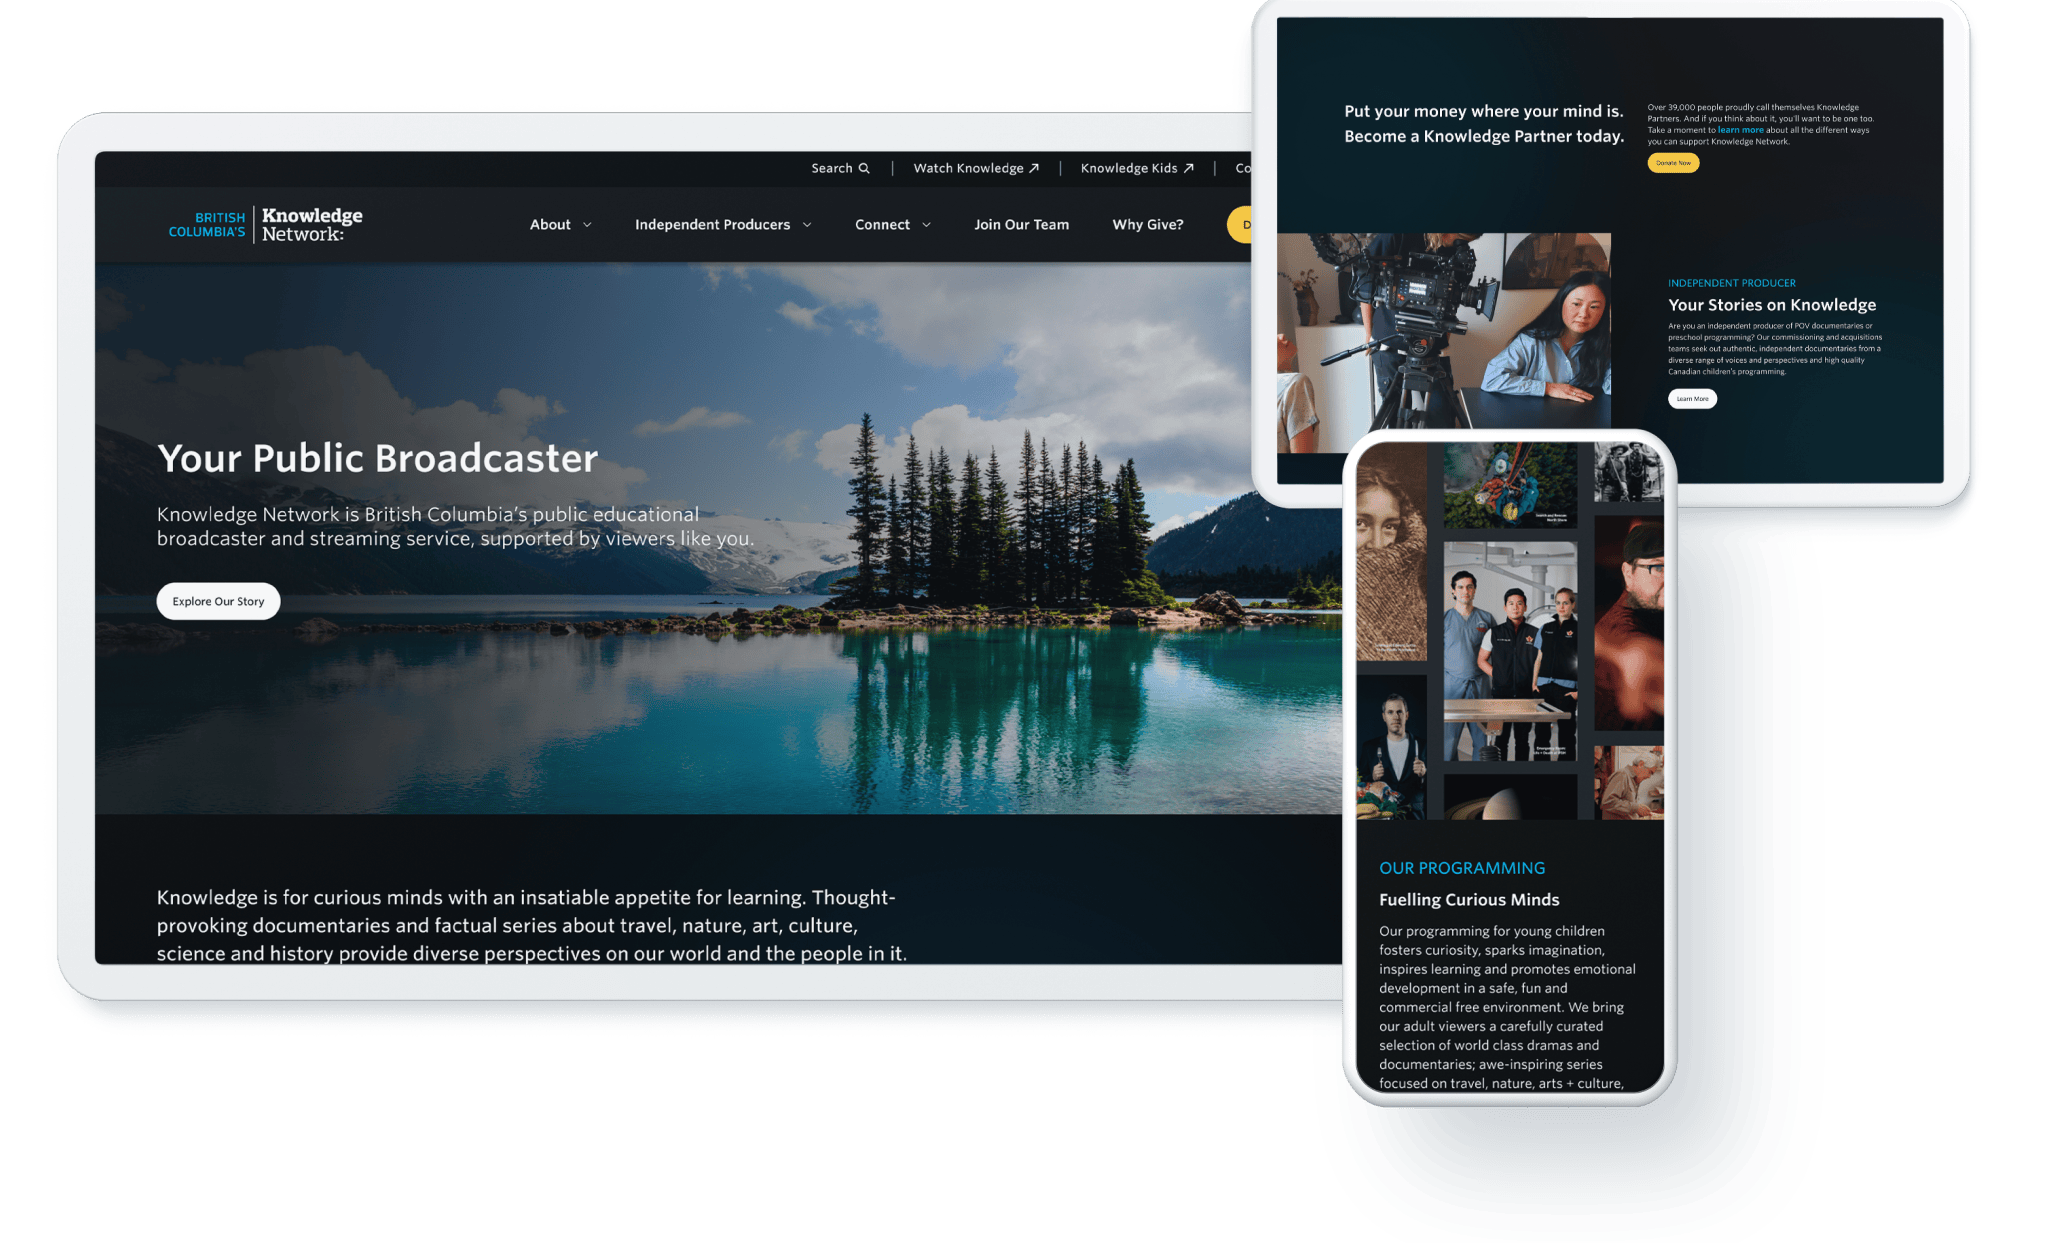
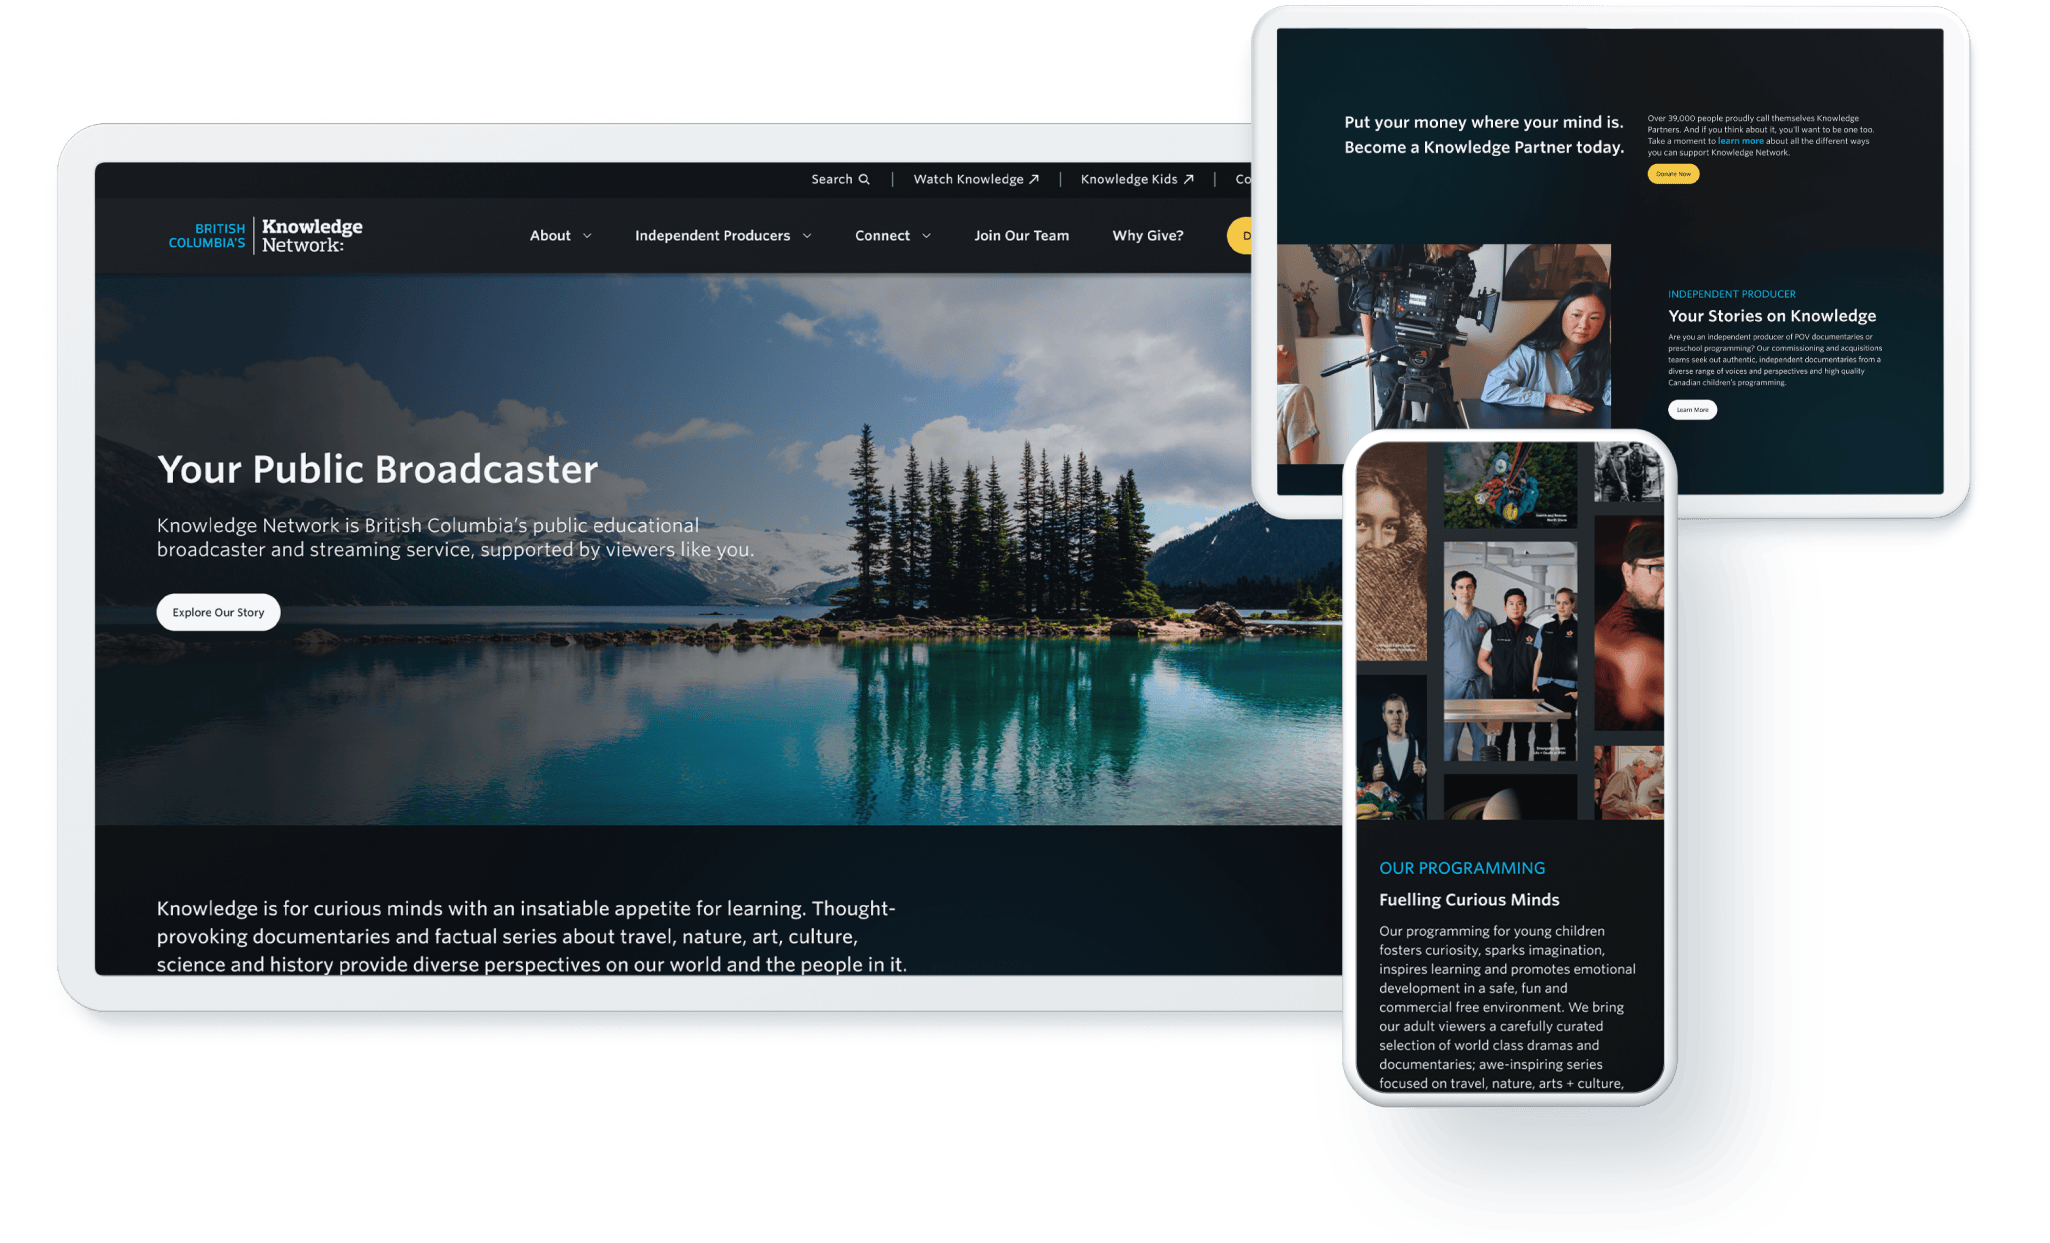
Bug fix on case study intro fading out on click

diff --git a/src/js/grid.js b/src/js/grid.js
@@ -122,13 +122,6 @@ function remap(f, pitch, tab) {
 /* ============================================================
    PORTFOLIO DATA — edit content in projects.js
 ============================================================ */
-const PALETTE = [
-  ['#1b3a4b', '#3b6978'], ['#4a2545', '#a4508b'], ['#2d3142', '#bfc0c0'],
-  ['#0b3d2e', '#1e8a5b'], ['#3a2618', '#c08552'], ['#1a1a2e', '#6c5ce7'],
-  ['#37123c', '#71677c'], ['#102542', '#f87060'], ['#222a2f', '#d9b26a'],
-  ['#1f2d3d', '#5bc0be'], ['#2b2118', '#b08968'], ['#0f1f2e', '#48a9a6'],
-];
-
 const N = PROJECTS.length;
 let activeProjects = PROJECTS;
 let activeN = N;
@@ -144,7 +137,7 @@ const viewedSlugs = new Set();
    COVER TEXTURE
    Photo (if loaded) or generated colour art, with card text overlaid.
 ============================================================ */
-function makeCover(p, idx, w = 1024, img = null) {
+function makeCover(p, w = 1024, img = null) {
   const c = document.createElement('canvas');
   c.width = w; c.height = Math.round(w * (ITEM_H / ITEM_W));
   const x = c.getContext('2d');
@@ -157,20 +150,8 @@ function makeCover(p, idx, w = 1024, img = null) {
     if (ir > cr) { dh = ch; dw = ch * ir; } else { dw = cw; dh = cw / ir; }
     x.drawImage(img, (cw - dw) / 2, (ch - dh) / 2, dw, dh);
   } else {
-    const [a, b] = PALETTE[idx % PALETTE.length];
-    const g = x.createLinearGradient(0, 0, cw, ch);
-    g.addColorStop(0, a); g.addColorStop(1, b);
-    x.fillStyle = g; x.fillRect(0, 0, cw, ch);
-    let seed = idx * 9301 + 49297;
-    const rnd = () => ((seed = (seed * 9301 + 49297) % 233280) / 233280);
-    x.globalAlpha = 0.12;
-    for (let i = 0; i < 6; i++) {
-      x.fillStyle = '#ffffff';
-      x.beginPath();
-      x.arc(rnd() * cw, rnd() * ch, 50 + rnd() * 190, 0, Math.PI * 2);
-      x.fill();
-    }
-    x.globalAlpha = 1;
+    x.fillStyle = p.accentColourPrimary;
+    x.fillRect(0, 0, cw, ch);
   }
 
   // Vertically + horizontally centred label: title → client
@@ -290,7 +271,7 @@ new THREE.TextureLoader().load('/assets/grid-bg.jpg', (tex) => {
 
 /* ---------- textures (start as generated art, photos swap in on load) ---------- */
 const textures = PROJECTS.map((p, i) => {
-  const t = new THREE.CanvasTexture(makeCover(p, i));
+  const t = new THREE.CanvasTexture(makeCover(p));
   t.anisotropy = renderer.capabilities.getMaxAnisotropy();
   return t;
 });
@@ -300,7 +281,7 @@ const _bgPreloads = new Map(PROJECTS.map(p => [p.src, new Image()]));
 PROJECTS.forEach((p, i) => {
   const img = _bgPreloads.get(p.src);
   img.onload = () => {
-    textures[i].image = makeCover(p, i, 1024, img);
+    textures[i].image = makeCover(p, 1024, img);
     textures[i].needsUpdate = true;
   };
   img.onerror = () => console.warn('Card image not found, using generated art:', p.src);
@@ -312,7 +293,7 @@ function markViewed(p) {
   viewedSlugs.add(p.slug);
   const img = _bgPreloads.get(p.src);
   const loaded = img && img.complete && img.naturalWidth > 0 ? img : null;
-  textures[p._idx].image = makeCover(p, p._idx, 1024, loaded);
+  textures[p._idx].image = makeCover(p, 1024, loaded);
   textures[p._idx].needsUpdate = true;
 }
 
@@ -1893,7 +1874,9 @@ function animate() {
   const tweenTargetCcx = Math.round(-tween.x1 / PITCH_X);
   const tweenTargetCcy = Math.round(-tween.y1 / PITCH_Y);
   const tweenChangesCell = tween.active && (tweenTargetCcx !== ccx || tweenTargetCcy !== ccy);
-  const tweeningAway = tween.active && (tween.x1 !== 0 || tween.y1 !== 0);
+  const tweeningAway = tween.active
+    && isIntroCell(ccx, ccy)
+    && !isIntroCell(tweenTargetCcx, tweenTargetCcy);
 
   // Show CTA when settled on any project card — (0,0) counts as a project when filters are active
   const settled = !(drag.active && drag.moved > 6) && !coasting && !tweenChangesCell && !zoomed && !wheeling && activeN > 0 && !isIntroCell(ccx, ccy);
